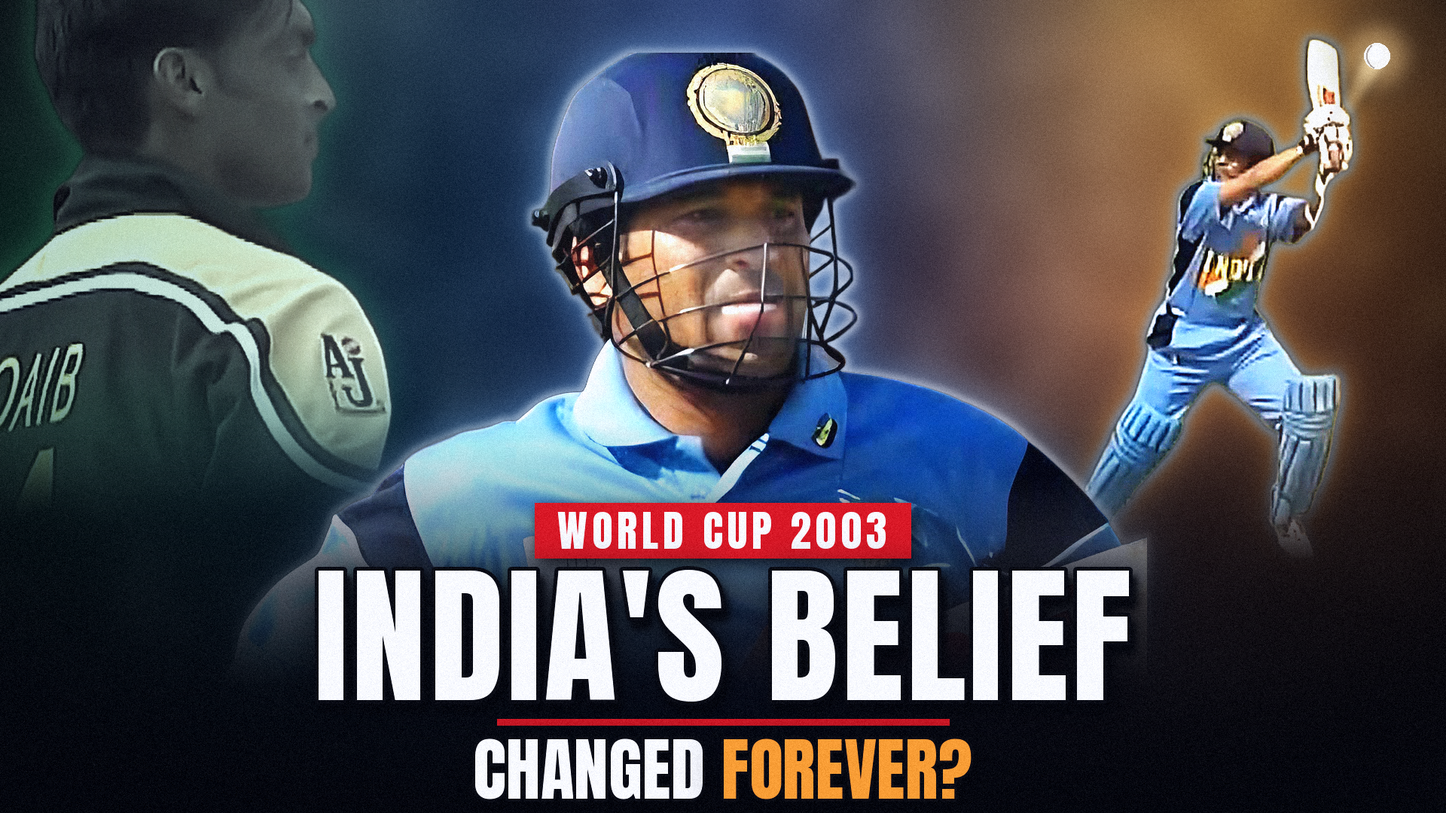
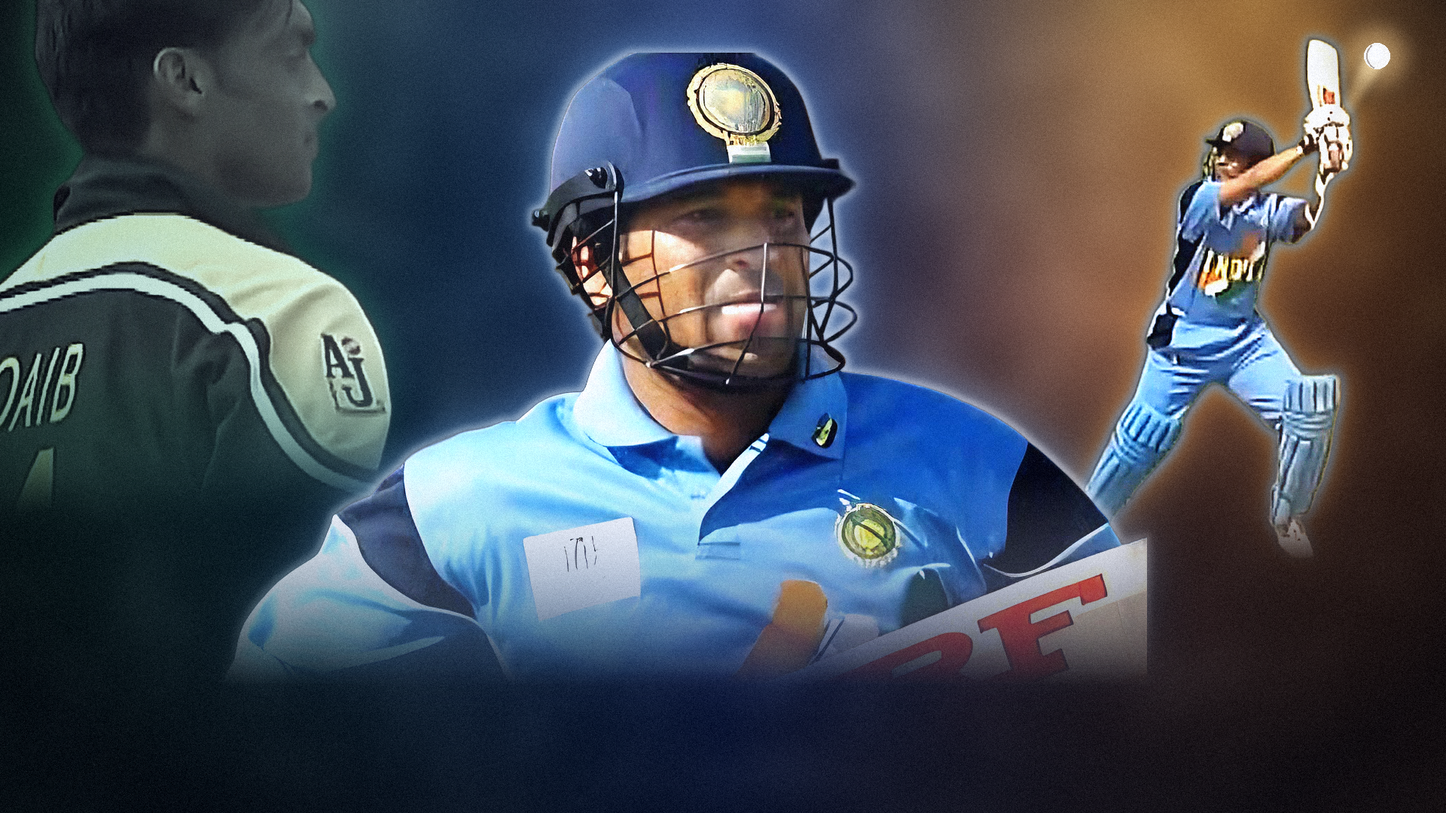
Add higher-resolution thumbnail variant E from supplied Sachin and Shoaib stills
Same layout as D; centre and left now use the sharper close-ups (cut_hq_*).
headline() and finish() split out of main() so both variants share them.

Claude-Session: https://claude.ai/code/session_01SQh72PYSr2UGL5osbLDTTd

Changed region(s): [[0.1562, 0.55, 0.8438, 1.0], [0.875, 0.55, 0.9375, 0.7028]]

diff --git a/doc_video/thumb/thumb_wc2003.py b/doc_video/thumb/thumb_wc2003.py
@@ -246,7 +246,10 @@ def main():
     b[..., :3] = b[..., :3] + (255 - b[..., :3]) * lift[..., None] * 0.22
     base = img(b, "RGBA")
 
-    # headline zone
+    finish(base, "thumb_D_wc2003_belief")
+
+
+def headline(base):
     floor(base, 560)
     banner(base, "WORLD CUP 2003", 56, W // 2, 668)
     _, _, _, bottom = shadow_text(base, "INDIA'S BELIEF", 200, W // 2, 752, (255, 255, 255), stroke=5, tracking=4)
@@ -259,13 +262,46 @@ def main():
     shadow_text(base, "CHANGED", 92, left + w1 / 2 - l2.getlength(" ") / 2, bottom + 40, (255, 255, 255), stroke=4)
     shadow_text(base, "FOREVER?", 92, left + w1 + w2 / 2, bottom + 40, SAFFRON, stroke=4)
 
+
+def finish(base, name):
     out = grade_and_grain(base)
-    name = "thumb_D_wc2003_belief"
     out.save(os.path.join(HERE, name + ".png"))
     out.save(os.path.join(HERE, name + ".jpg"), quality=94)
     out.resize((320, 180), Image.LANCZOS).save(os.path.join(HERE, name + "_small.png"))
     print("wrote", name)
 
 
+def main_hq():
+    """Same layout from the higher-resolution stills supplied for the thumbnail (cut_hq_*)."""
+    base = background()
+
+    # LEFT - Shoaib staring across at Sachin, desaturated and set back
+    sh = load_cut("cut_hq_shoaib_stare.png", 900)
+    sh = regrade(sh, color=0.3, contrast=1.3, bright=0.8, sharpen=(2, 90, 2), tint=(60, 130, 90), tint_k=0.3)
+    sh = directional_light(sh, "right", (225, 240, 230), 0.9)
+    sh = fade_bottom(sh, 420, 700)
+    place(base, sh, -140, 10, rims=[((80, 170, 120), 16, 0.7)])
+
+    # RIGHT - the upper-cut
+    up = load_cut("cut_wc_sachin_uppercut.png", 640)
+    up = regrade(up, color=1.2, contrast=1.15, bright=1.05, sharpen=(2.5, 140, 2))
+    up = directional_light(up, "right", SAFFRON, 0.9)
+    up = fade_bottom(up, 500, 640)
+    ux, uy = W - up.width - 70, 60
+    place(base, up, ux, uy, rims=[(GOLD, 20, 1.0), ((90, 170, 255), 6, 0.9)])
+    ball_with_trail(base, W - 70, 70, ux + up.width - 40, uy + 140)
+
+    # CENTRE - the hero close-up
+    hero = load_cut("cut_hq_sachin_cap.png", 760)
+    hero = regrade(hero, color=1.08, contrast=1.1, bright=1.06, sharpen=(1.6, 80, 2))
+    hero = directional_light(hero, "left", (255, 214, 170), 0.45)
+    hero = fade_bottom(hero, 600, 740)
+    hx, hy = 960 - int(hero.width * 0.48), 0
+    place(base, hero, hx, hy, rims=[(ICE, 26, 1.1), ((255, 255, 255), 5, 0.8)])
+
+    headline(base)
+    finish(base, "thumb_E_wc2003_belief_hq")
+
 if __name__ == "__main__":
     main()
+    main_hq()
